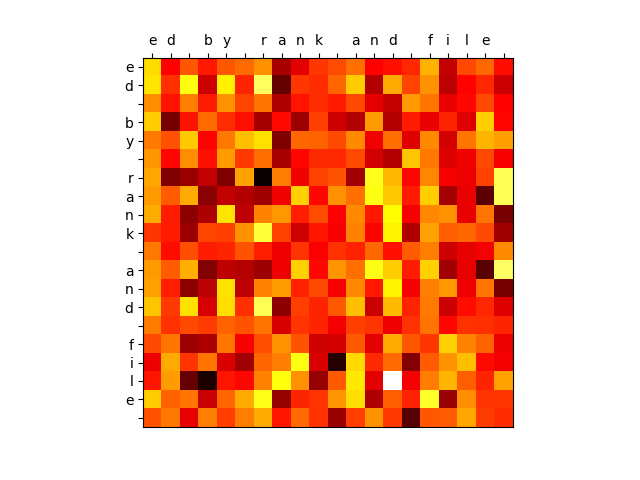
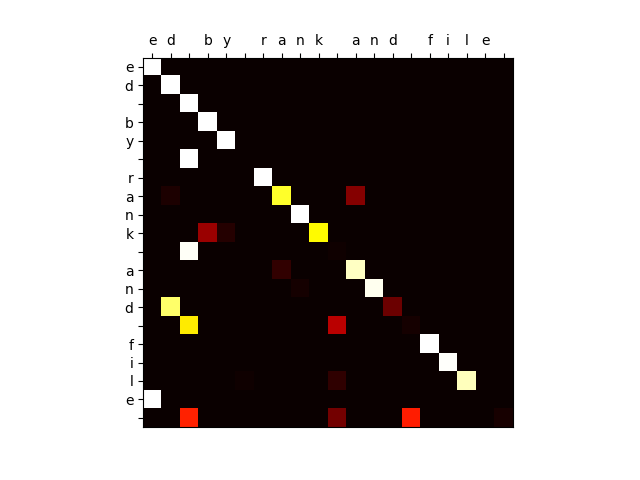
TransformerLM_full

diff --git a/transformer_lm.py b/transformer_lm.py
@@ -3,37 +3,37 @@
 import numpy as np
 import torch
 import torch.nn as nn
+import random
 from transformer import PositionalEncoding
-import math
+from torch import optim
 
 class Transformer(nn.Module):
-    def __init__(self, vocab_size, d_model, d_internal, num_classes, num_layers):
+    def __init__(self, vocab_index, d_model, d_internal, num_classes, num_layers):
         super().__init__()
-        self.emb = nn.Embedding(vocab_size, d_model)
+        self.indexer = vocab_index
+        self.emb = nn.Embedding(len(vocab_index), d_model)
         self.pos = PositionalEncoding(d_model)
         encoder_layers = nn.TransformerEncoderLayer(d_model, 1, d_internal)
         self.transformer_encoder = nn.TransformerEncoder(encoder_layers, num_layers)
 
-        self.output = nn.Linear(d_model, num_classes)
+        self.decoder = nn.Linear(d_model, num_classes)
         
         self.logsoftmax = nn.LogSoftmax(dim = -1)
 
     def forward(self, indices):
         """
         :param indices: list of input indices
-        :return: A tuple of the softmax log probabilities (should be a 20x3 matrix) and a list of the attention
-        maps you use in your layers (can be variable length, but each should be a 20x20 matrix)
+        :return: A tuple of the softmax log probabilities (should be a 20x27 matrix)
         """
         src = self.emb(indices)
         src = self.pos(src)
 
-        mask = torch.triu(torch.ones(indices.shape[0], indices.shape[0]), diagonal=1).to(indices.device)
-        mask = (mask == 0).unsqueeze(1)
+        mask = (torch.triu(torch.ones(len(indices), len(indices))) == 1).transpose(0, 1)
+        mask = mask.float().masked_fill(mask == 0, float('-inf')).masked_fill(mask == 1, float(0.0))
 
-        for layer in self.layers:
-            src = layer(src, mask=mask)
+        src = self.transformer_encoder(src, mask = mask)
 
-        return self.logsoftmax(self.output(src)) # 32x10x512
+        return self.logsoftmax(self.decoder(src))
     
 
 class LanguageModel(object):
@@ -78,15 +78,66 @@ class UniformLanguageModel(LanguageModel):
 
 
 class NeuralLanguageModel(LanguageModel):
-    def __init__(self, vocab_size, d_model, d_internal, num_classes, num_layers):
-        self.model = Transformer(self, vocab_size, d_model, d_internal, num_classes, num_layers)
+    def __init__(self, vocab_index, d_model, d_internal, num_classes, num_layers):
+        self.model = Transformer(vocab_index, d_model, d_internal, num_classes, num_layers)
+        self.indexer = vocab_index
 
     def get_next_char_log_probs(self, context):
         self.model.eval()
+        space = torch.LongTensor([self.indexer.index_of(' ')])
+        indices = self.char_to_idx(context)
+        indices  = torch.cat((space, indices), 0).long()
+
+        output = self.model(indices) # 20x27
+
+        with torch.no_grad():
+            out = output[-1].numpy()
+        return out # 27
 
     def get_log_prob_sequence(self, next_chars, context):
         self.model.eval()
+        
+        window_size = 20
+        sequence = context + next_chars
 
+        space = torch.LongTensor([self.indexer.index_of(' ')])
+        indices = self.char_to_idx(sequence[:-1])
+        sequence_idx  = torch.cat((space, indices), 0).long()
+
+        output_idx = self.char_to_idx(sequence)
+        
+        seq_len = len(sequence)
+        context_len = len(context)
+        processed_len = 0
+
+        output_tensor = torch.Tensor()
+        while processed_len < seq_len:
+            if seq_len - processed_len < window_size:
+                indices = sequence_idx[processed_len:]
+            else:
+                indices = sequence_idx[processed_len:processed_len+window_size]
+            probs = self.model(indices)
+            if processed_len < context_len:
+                output_tensor = torch.cat((output_tensor, probs[context_len:]), 0)
+            else:
+                output_tensor = torch.cat((output_tensor, probs), 0)
+            processed_len += len(indices)
+        
+        log_probs = 0.0
+        i = 0
+        for c in output_idx[context_len:]:
+            log_probs += output_tensor[i][c].item()
+            i += 1
+        
+        return log_probs
+
+    def char_to_idx(self, exs):
+        output = np.array([self.indexer.index_of(ci) for ci in exs])
+        return torch.from_numpy(output)
+
+def char_to_idx(vocab_index, exs):
+    output = np.array([vocab_index.index_of(ci) for ci in exs])
+    return torch.from_numpy(output)
 
 def train_lm(args, train_text, dev_text, vocab_index):
     """
@@ -96,11 +147,48 @@ def train_lm(args, train_text, dev_text, vocab_index):
     :param vocab_index: an Indexer of the character vocabulary (27 characters)
     :return: a NeuralLanguageModel instance trained on the given data
     """
-    train_exs = np.asarray(list(train_text))
-    train_exs = train_exs.reshape(20, -1)
 
-    dev_exs = np.asarray(list(dev_text))
-    dev_exs = dev_exs.reshape(20, -1)
-    
+    num_positions = 20
+    d_model = 100
+    d_internal = d_model*8
+    num_classes = len(vocab_index)
+    num_layers = 2
 
-    raise Exception("Implement me")
+    train_exs = np.asarray(list(train_text)).reshape(-1, num_positions)
+
+    NeuralLM = NeuralLanguageModel(vocab_index, d_model, d_internal, num_classes, num_layers)
+
+    model =  NeuralLM.model
+    model.zero_grad()
+    model.train()
+    optimizer = optim.Adam(model.parameters(), lr=1e-4)
+
+    space = torch.LongTensor([vocab_index.index_of(' ')])
+
+    num_epochs = 7
+    for t in range(0, num_epochs):
+        loss_this_epoch = 0.0
+        random.seed(t)
+        ex_idxs = [i for i in range(0, len(train_exs))]
+        random.shuffle(ex_idxs)
+        loss_fcn = nn.NLLLoss()
+        for ex_idx in ex_idxs:
+            model.zero_grad()
+
+            train_idx = char_to_idx(vocab_index, train_exs[ex_idx])
+            # concat start of sequence at front
+            model_input = torch.cat((space, train_idx), 0)
+            probs = model.forward(model_input[:-1])
+
+            # gold sequence to index
+            output_idx = np.array(train_idx)
+            output_tensor = torch.LongTensor(output_idx)
+            output_tensor = torch.flatten(output_tensor)
+
+            loss = loss_fcn(probs, output_tensor)  # TODO: Run forward and compute loss
+            loss.backward()
+            optimizer.step()
+            loss_this_epoch += loss.item()
+        print("Epoch:", t+1, ", Total loss:", loss_this_epoch)
+    model.eval()
+    return NeuralLM

diff --git a/transformer.py b/transformer.py
@@ -106,7 +106,7 @@ class TransformerLayer(nn.Module):
         # final residual connection
         output = output + intermediate_output
 
-        return output, attention_map
+        return output, attention_weights
 
 
 # Implementation of positional encoding that you can use in your network
